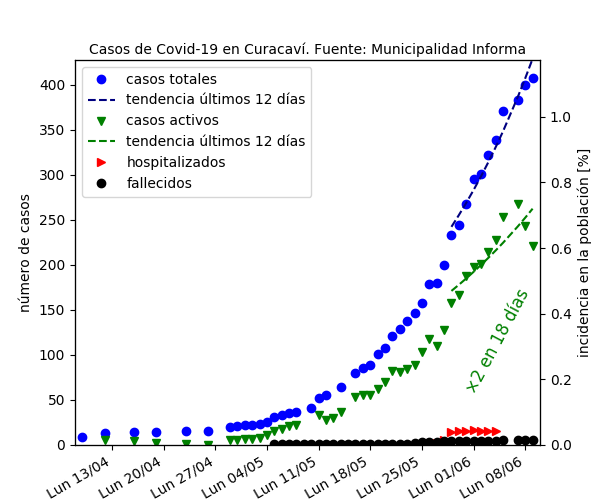
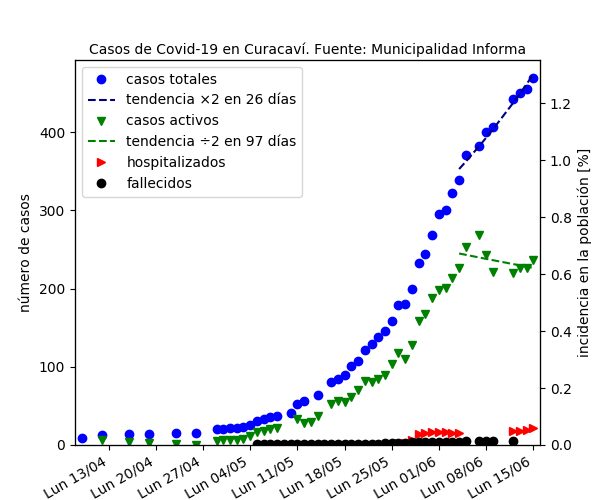
update

diff --git a/curacavi.py b/curacavi.py
@@ -26,14 +26,22 @@ def grafica_curacavi(plot_log=False):
     dia = np.array([(f - fecha[0]).item().days for f in fecha[keep]])
     reg = linregress(dia, np.log(casos[keep]))
     tendencia_casos = np.exp(reg.slope * dia + reg.intercept) 
+    dup_casos = np.log(2) / reg.slope
+    if dup_casos < 0:
+        text_casos = 'tendencia ÷2 en {:.0f} días'.format(-dup_casos)
+    else:
+        text_casos = 'tendencia ×2 en {:.0f} días'.format(dup_casos)
 
     #keep = ~activos.mask
     keep = fecha - fecha[-1] > -12 * DAY 
     dia = np.array([(f - fecha[0]).item().days for f in fecha[keep]])
     reg = linregress(dia, np.log(activos[keep]))
     tendencia_activos = np.exp(reg.slope * dia + reg.intercept) 
-    dias_duplicacion = np.log(2) / reg.slope
-
+    dup_activos = np.log(2) / reg.slope
+    if dup_activos < 0:
+        text_activos = 'tendencia ÷2 en {:.0f} días'.format(-dup_activos)
+    else:
+        text_activos = 'tendencia ×2 en {:.0f} días'.format(dup_activos)
 
     nplot = 1 + plot_log
     fig = plt.figure(1, figsize=(6, 2 + 3 * nplot))
@@ -42,10 +50,10 @@ def grafica_curacavi(plot_log=False):
         ax = fig.add_subplot(nplot, 1, i + 1)
         ax.plot(fecha, casos, 'bo', label='casos totales')
         ax.plot(fecha[keep], tendencia_casos, '--', color=(0, 0, .5), 
-            label='tendencia últimos 12 días' )
+            label=text_casos)
         ax.plot(fecha, activos, 'gv', label='casos activos')
         ax.plot(fecha[keep], tendencia_activos, '--', color=(0, .5, 0), 
-            label='tendencia últimos 12 días')
+            label=text_activos)
         ax.plot(fecha, hosp, 'r>', label='hospitalizados')
         ax.plot(fecha, muertos, 'ko', label='fallecidos')
         ax.xaxis.set_major_formatter(DateFormatter('Lun %d/%m'))
@@ -74,11 +82,6 @@ def grafica_curacavi(plot_log=False):
             ax.text(.02, 0.98, 'escala logarítmica', va='top',
                     transform=ax.transAxes)
         else:
-            text = '×2 en {:.0f} días'.format(dias_duplicacion)
-            y_text = 0.8 * min(tendencia_activos[-1], activos[-1])
-            ax.text(fecha[-1], y_text, text,
-                rotation=62, va='top', ha='right', color=(0,.5,0),
-                fontsize=12)
             ax.legend(loc='upper left')
             if nplot == 2:
                 ax.set_xticklabels([])
